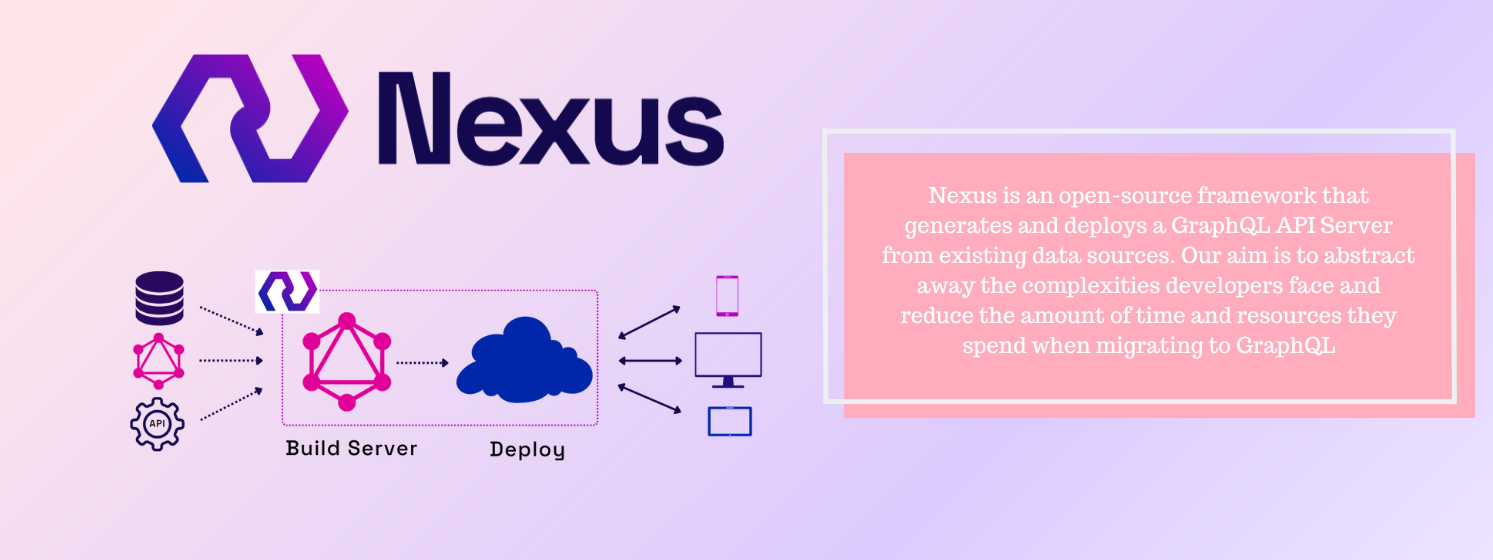
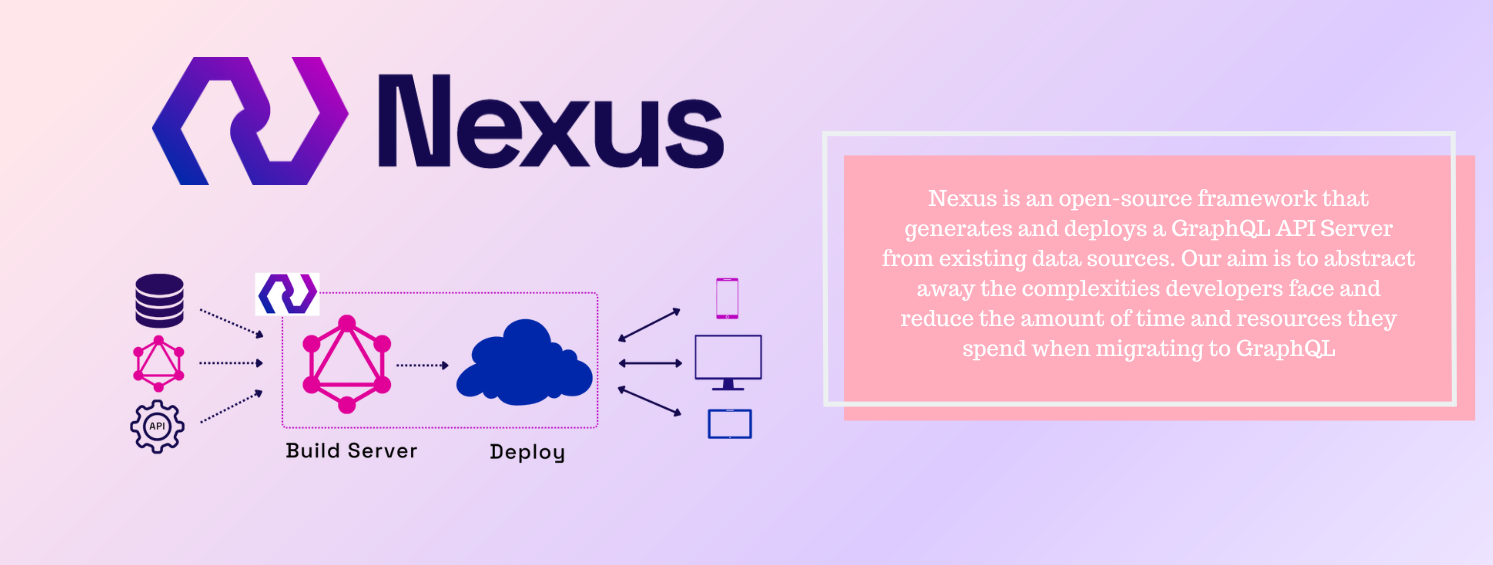
update sizing of nexus info

diff --git a/index.html b/index.html
@@ -97,14 +97,14 @@
         <header class="small">
           <h2>
             Kim Ramirez<br />
-            <i>Software Engineer</i>
+            Software Engineer
           </h2>
           <p>
             Thank you for stopping by. My name is Kim, and I am a software
             engineer based out of Fort Collins, Colorado. I am experienced in
             JavaScript/Node.js, Ruby, AWS, React, Express, Docker, and Go.<br /><br />
-            Most recently, I built Nexus, a open-source framwork to generate a
-            GraphQL API Server from existing data sources, and deploy it.
+            Most recently, I have been working on building Nexus, a open-source
+            framwork to generate.
           </p>
 
           <ul class="actions fit">
@@ -126,77 +126,14 @@
             </li>
           </ul>
         </header>
-        <div class="nexus_info">
+        <img src="images/nexus_info.png" class="nexus_info" />
         </div>
-        <img src="images/nexus_info.png" class="nexus_info"></img>
-        <!-- <div class="image filtered" data-position="center"></div> -->
-        <div class="features">
-          <section>
-            <span class="icon solid fa-camera-retro major accent2"></span>
-            <h3>Etiam</h3>
-            <p>
-              Lorem ipsum dolor sit amet, consectetur adipiscing elit. Fusce eu
-              lacus imperdiet, cursus erat vitae, dictum nulla.
-            </p>
-          </section>
-          <section>
-            <span class="icon fa-gem major accent3"></span>
-            <h3>Aptent</h3>
-            <p>
-              Ut ultrices hendrerit dignissim euismod. Fusce a sem interdum,
-              elementum quam vitae, hendrerit lorem eget.
-            </p>
-          </section>
-          <section>
-            <span class="icon fa-chart-bar major accent4"></span>
-            <h3>Magna</h3>
-            <p>
-              Donec hendrerit, orci nec eleifend auctor, ipsum pharetra leo, eu
-              imperdiet mauris sem id tellus. In at ex efficitur.
-            </p>
-          </section>
-          <section>
-            <span class="icon solid fa-rss major accent1"></span>
-            <h3>Tempus</h3>
-            <p>
-              Faucibus ligula, ac blandit purus arcu non sed nibh. Nam aliquam
-              in erat a ultricies. Vivamus leo est lorem finibus.
-            </p>
-          </section>
-          <section>
-            <span class="icon fa-comment-dots major accent2"></span>
-            <h3>Aliquam</h3>
-            <p>
-              Fermentum integer laoreet sollicitudin tortor et consequat.
-              Phasellus eu lectus. Sed libero quam vehicula eleifend.
-            </p>
-          </section>
-          <section>
-            <span class="icon fa-copy major accent3"></span>
-            <h3>Euismod</h3>
-            <p>
-              Quisque nec mollis turpis. Phasellus sit amet magna ut quam
-              lacinia interdum. Phasellus varius lobortis dui.
-            </p>
-          </section>
-        </div>
-        <footer>
-          <ul class="actions special">
-            <li><a href="#" class="button next">Magna Imperdiet</a></li>
-          </ul>
-        </footer>
       </section>
 
       <!-- Section -->
       <section class="main style1">
         <header class="small">
-          <h2>Lacinia egestas amet tincidunt vitae venenatis</h2>
-          <p>
-            Ac mollis metus. Nulla tristique urna sit amet sapien placerat
-            euismod. Suspendisse eget viverra ex. Nunc vel justo lectus.
-            Suspendisse potenti. Phasellus turpis augue, fringilla ut nisi vel
-            placerat.
-          </p>
+          <h2>Additional Projects</h2>
         </header>
         <div class="inner">
           <div class="posts">

diff --git a/assets/css/main.css b/assets/css/main.css
@@ -2821,13 +2821,6 @@ a.icon.alt:active:before {
   left: 0;
   width: 100%;
   height: 100%;
-  background-image: url(../../images/nexus_info.png),
-    linear-gradient(
-      to right,
-      rgba(164, 128, 255, 0.25),
-      rgba(255, 143, 131, 0.25)
-    );
-  background-repeat: no-repeat, no-repeat, no-repeat;
 }
 
 a.image {
